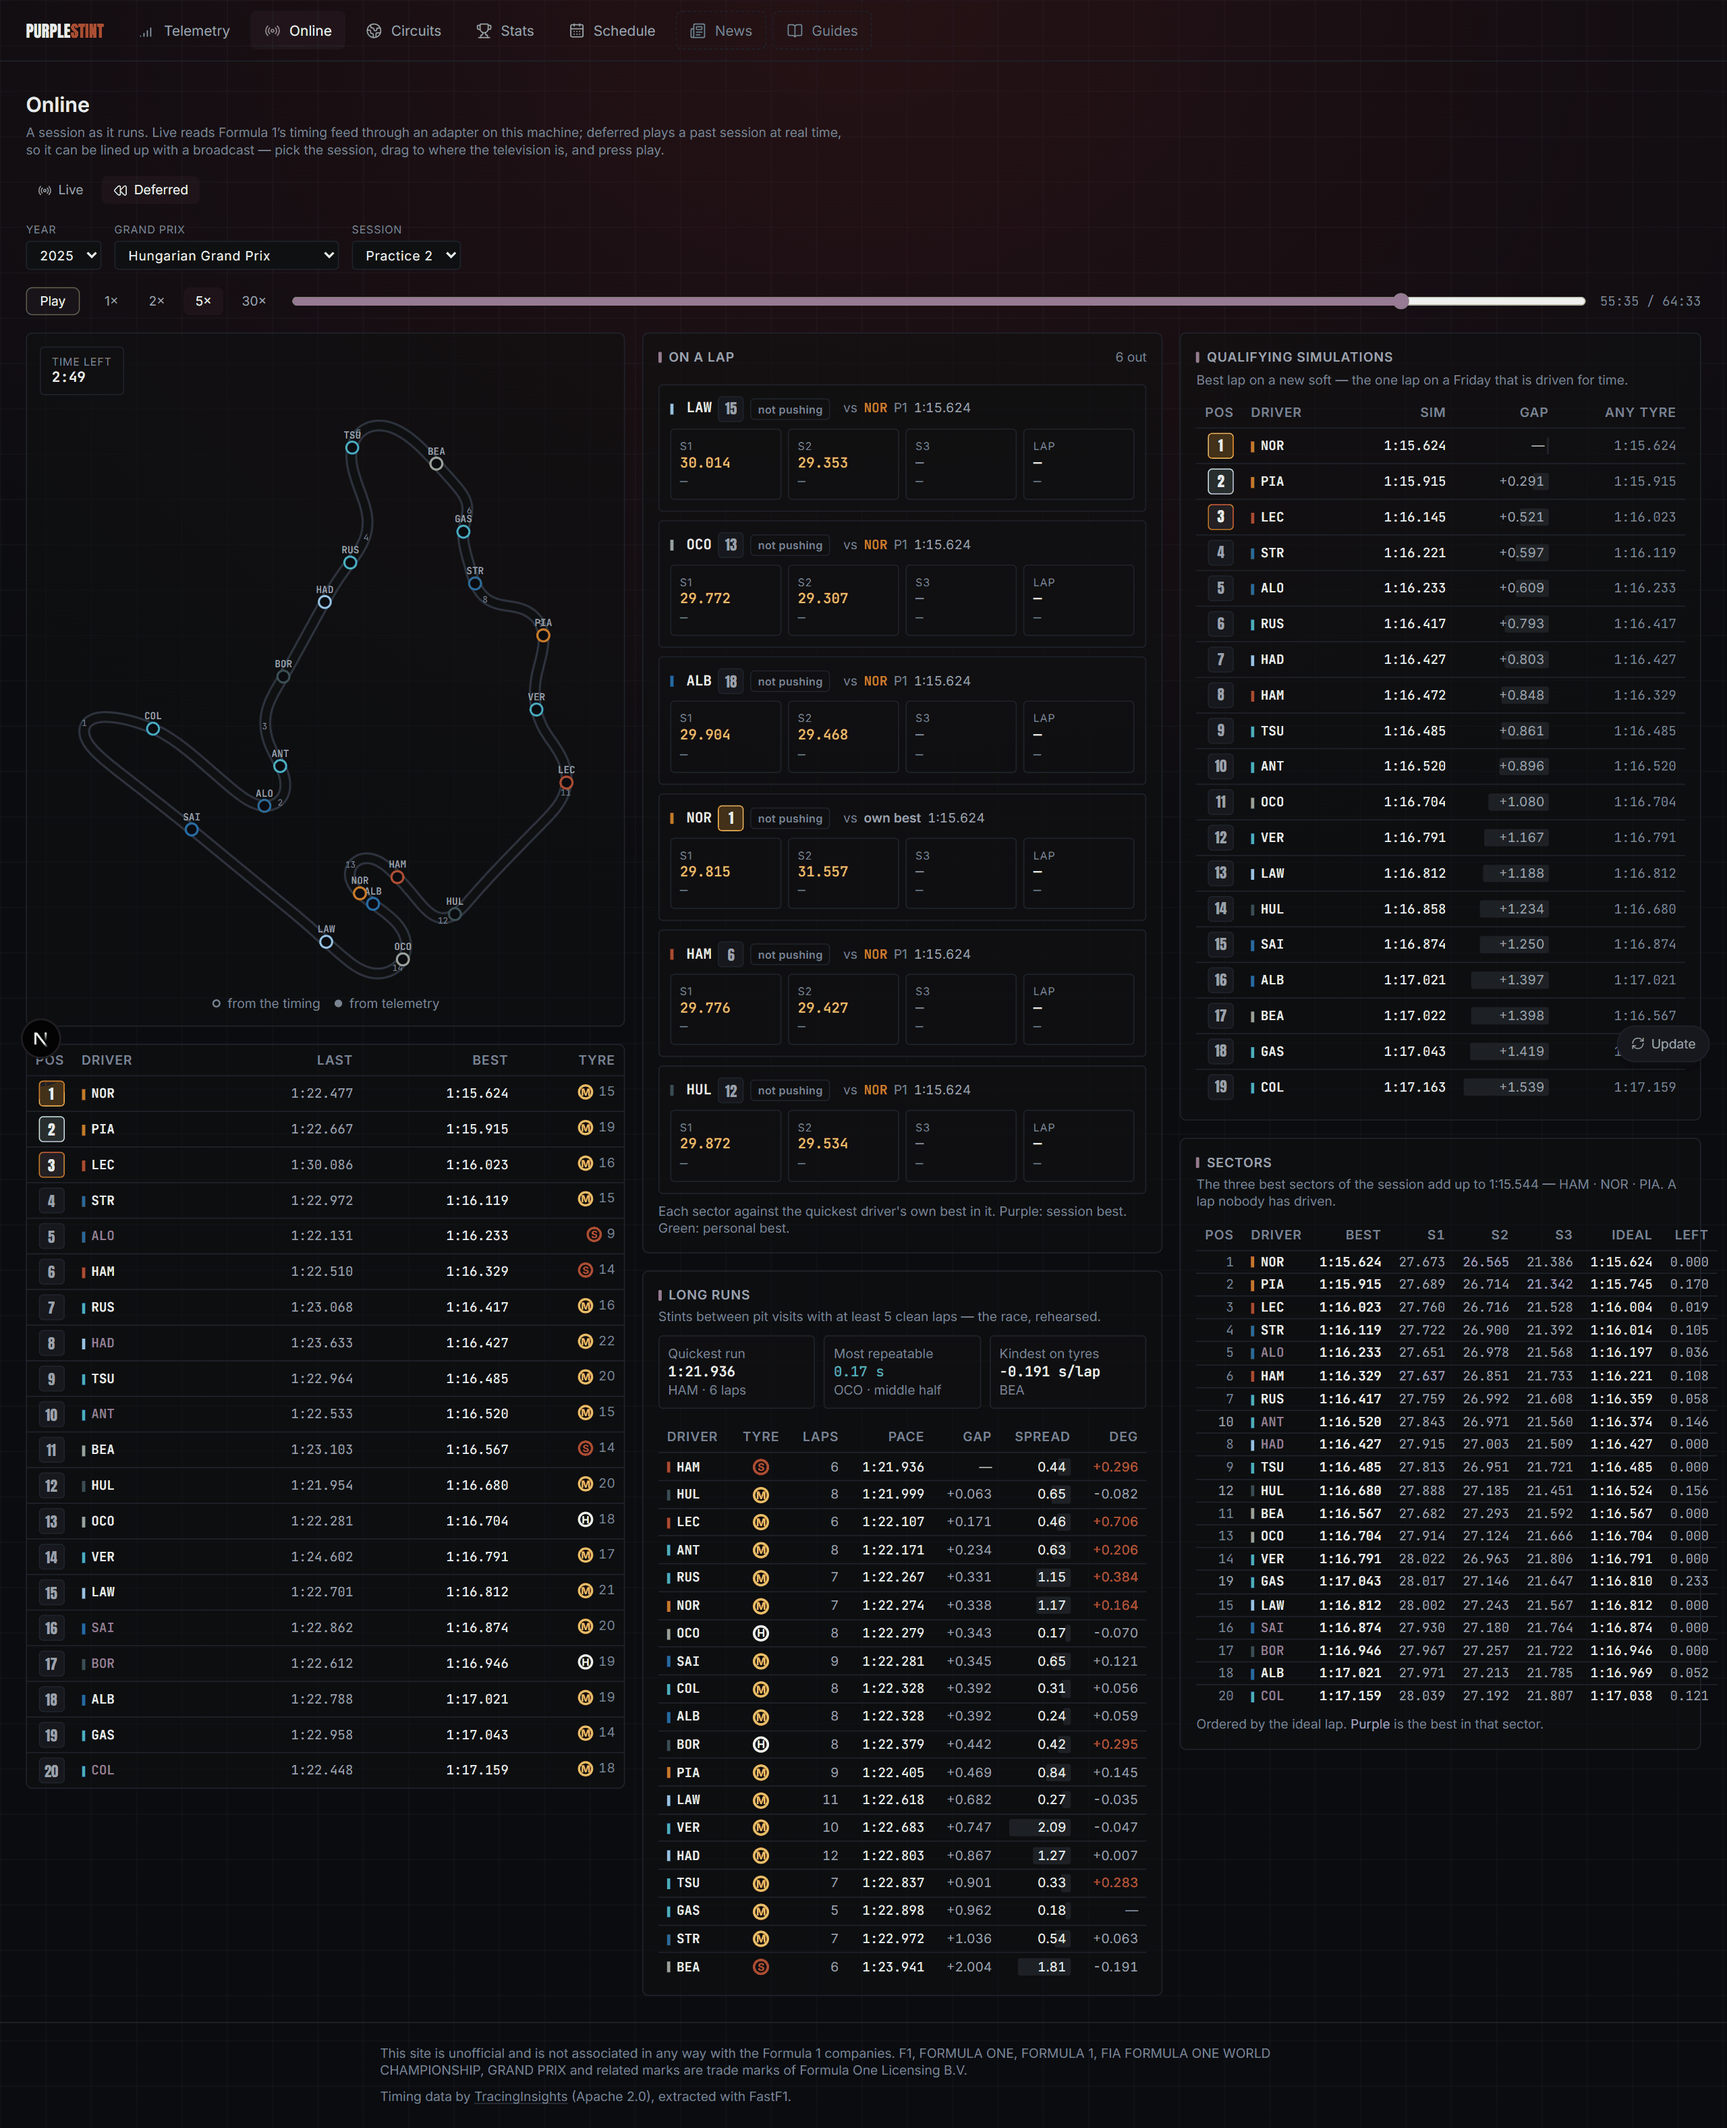
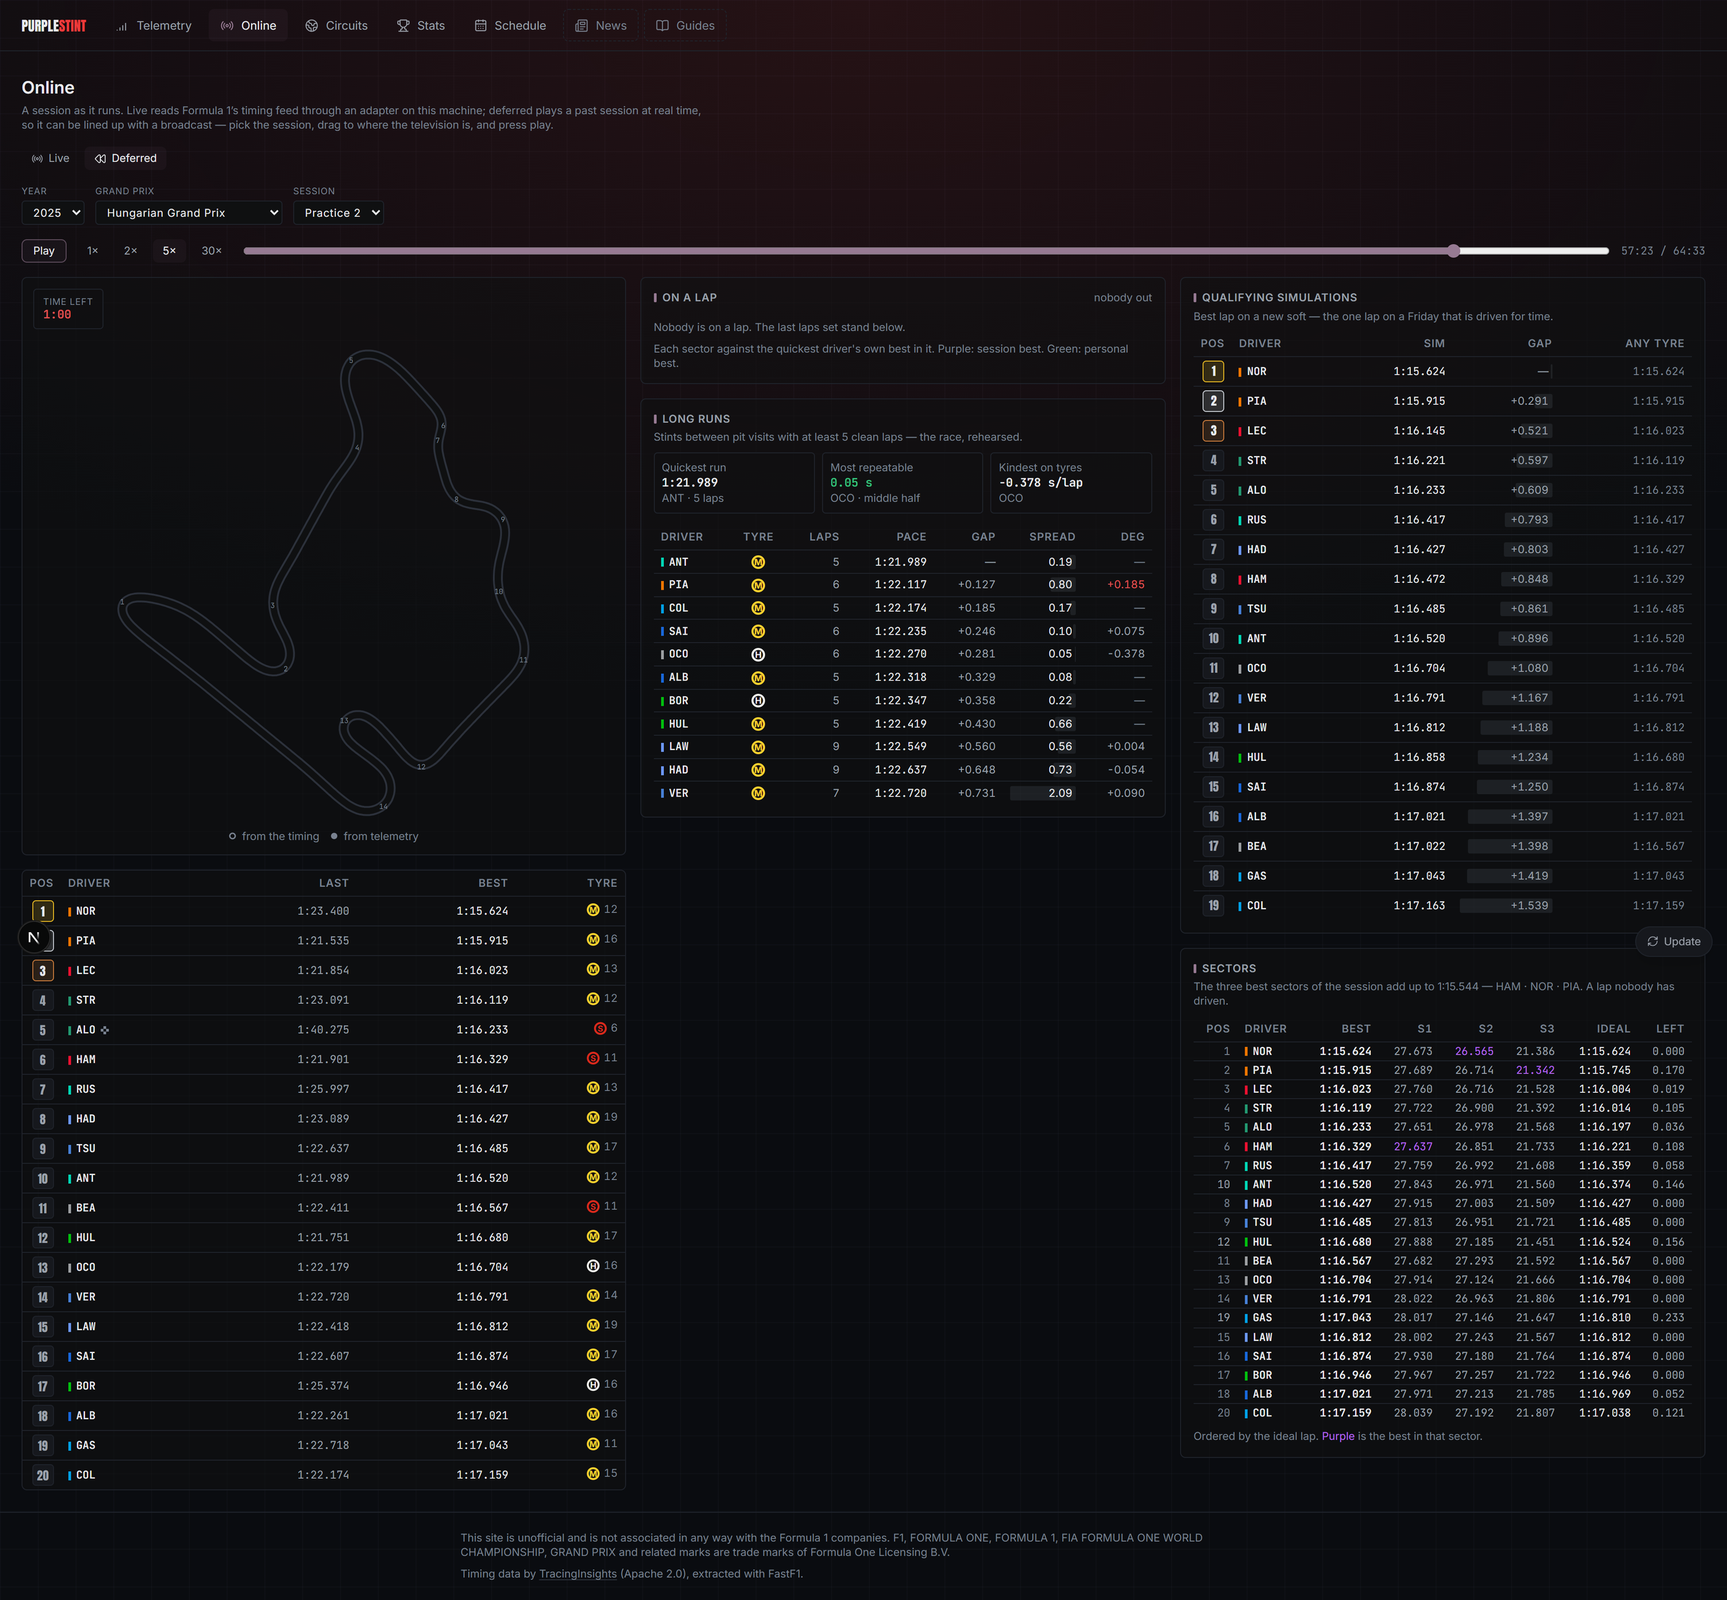
Purple Stint: better shots of the Online view
Captured at twice the pixel density and downsampled, rather than rendered at
1.6x and cut to 256 colours to save weight — text that has to be read in a
lightbox cannot afford either.

And captured at a moment worth keeping: a script plays the session, scores
each frame on how much of the screen is actually saying something, and stops
at the first one that clears the bar. Then it pauses and waits out the
reorder animation before the shutter, because a row caught halfway through a
change of place reads as a rendering bug in a still, however right it looks
in motion. Qualifying now shows four cars on flying laps with their sector
deltas rather than one; practice shows the long runs with the three readings
a Friday is planned by; the race shows the battles sector by sector.

diff --git a/index.html b/index.html
@@ -371,7 +371,7 @@ footer{text-align:center;padding:32px;border-top:1px solid var(--border);font-fa
 <p><strong>Watching a session as it runs.</strong> A second way into the data: a live timing screen, a map and a panel of analysis that changes with the session. It reads Formula 1&rsquo;s own timing feed through a small adapter that runs on one machine, or replays an exported session at real time so it can be lined up with a broadcast. That feed carries no licence, so the page is built and then <em>deleted</em> from the published export by the same script that reports the deployment&rsquo;s size, and a test fails the build if the route ever survives it; what ships is the replay path and the analysis, both built from the Apache-2.0 data. The two sources meet at one frame format and one reducer, so the live tool and the replay share every line except the adapter &mdash; which is what lets the live path be tested at all: 51 tests drive it by folding whole real sessions off disk and checking the state against the session&rsquo;s own classification.</p>
 <p><strong>The map was empty, and the measurement said so.</strong> The circuit map looked broken and the first job was to find out why rather than to style it. Instrumented in a real browser it held 60 fps with no long tasks, and drew no car at all for twenty seconds at a stretch: the exported telemetry is one lap per driver, which over twenty cars is 41 % of a qualifying&rsquo;s clock and 28 % of a race&rsquo;s &mdash; fewer than one car on screen at any moment. So the map is driven from the timing instead, which is complete, and the telemetry is kept for the one thing timing cannot give: the shape of a lap. A car a third of the way through a lap in <em>time</em> is not a third of the way round in <em>distance</em>, and that relation is measured once off a real lap and every car placed through it. Checked against the telemetry it does not use, the placement lands 6 m from the truth at the median and 12 m at the ninetieth percentile on a qualifying lap, 7 m and 17 m on a race lap, on a 4.35 km circuit. A car whose telemetry is running is still drawn from it, solid; the rest are hollow, because an estimate should look like one.</p>
 <p><strong>Each session asks its own question.</strong> Friday reads the long runs &mdash; stints between pit visits with at least five clean laps, with the median pace, the interquartile spread as consistency and the slope of the run as degradation &mdash; where clean means within 12 % of the stint&rsquo;s best, a rule added after one cool-down lap put a 41 s lap inside a Friday run. Saturday carries the cut-off above, and beside it each car on a lap against the time that matters to it: inside the cut you chase P1, outside it the car on the cut, sector by sector. Sunday leads with the battles &mdash; consecutive cars within a second and a half, or closing fast enough to be soon, with the cumulative delta at each sector both have passed and the laps until the chaser arrives &mdash; and then the net order, where a stop&rsquo;s worth of time is added to whoever still owes the mandatory change. What a stop costs is measured from the stops that race has already had rather than assumed: 20.2 s over 23 stops at Hungary 2025, against the 19 s of pit lane the site reports elsewhere. The session clock is derived the same way, from the moment the pit lane opened plus the regulation length, and refused where it cannot be trusted &mdash; a red-flagged qualifying stops the clock and nothing in the export says for how long, so Monaco 2025 offers a clock for Q3 and none for Q1 or Q2.</p>
-<div class="img-slider"><div class="img-slider-track" id="slider-ps-13"><div class="slide has-img shot" onclick="openLightbox(this)"><img loading="lazy" width="2560" height="2722" src="PurpleStint/P13 - Online race.png" alt="Online — race: the circuit with the lap counter, the order beside it, and the battles with what the chaser is taking at each sector"></div><div class="slide has-img shot" onclick="openLightbox(this)"><img loading="lazy" width="2560" height="2846" src="PurpleStint/P13 - Online qualifying.png" alt="Online — qualifying: the part's clock, a car on a lap against the time that matters to it, the sector board and the cut"></div><div class="slide has-img shot" onclick="openLightbox(this)"><img loading="lazy" width="2560" height="3154" src="PurpleStint/P13 - Online practice.png" alt="Online — practice: long runs with pace, spread and degradation, beside the qualifying simulations"></div></div><div class="slider-controls"><button class="slider-btn" onclick="scrollSlider(&#39;slider-ps-13&#39;,-1)">&larr;</button><button class="slider-btn" onclick="scrollSlider(&#39;slider-ps-13&#39;,1)">&rarr;</button></div></div>
+<div class="img-slider"><div class="img-slider-track" id="slider-ps-13"><div class="slide has-img shot" onclick="openLightbox(this)"><img loading="lazy" width="2560" height="2104" src="PurpleStint/P13 - Online race.png" alt="Online — race: the circuit with the lap counter, the order beside it, and the battles with what the chaser is taking at each sector"></div><div class="slide has-img shot" onclick="openLightbox(this)"><img loading="lazy" width="2560" height="2372" src="PurpleStint/P13 - Online qualifying.png" alt="Online — qualifying: the part's clock, a car on a lap against the time that matters to it, the sector board and the cut"></div><div class="slide has-img shot" onclick="openLightbox(this)"><img loading="lazy" width="2560" height="2372" src="PurpleStint/P13 - Online practice.png" alt="Online — practice: long runs with pace, spread and degradation, beside the qualifying simulations"></div></div><div class="slider-controls"><button class="slider-btn" onclick="scrollSlider(&#39;slider-ps-13&#39;,-1)">&larr;</button><button class="slider-btn" onclick="scrollSlider(&#39;slider-ps-13&#39;,1)">&rarr;</button></div></div>
 <p><strong>Colour as data, not decoration.</strong> Every colour is a token in one stylesheet and no component may hold a literal, which a test enforces. Each of the eleven sections owns its own accent hue, and the hues are chosen by search rather than by taste: a sweep of the sRGB cube for the colour furthest in CIEDE2000 from all 53 already in use, meaning the other accents, the timing and compound semantics, and the 21 team colours the data carries. The most recent one came out at 6.03:1 contrast and ΔE00 17.35 from its nearest neighbour, against a spec minimum of 15. Team colours are reserved for identity and never reused as interface colour, because a series colour on a chart is data. The whole thing exports to 8 220 files at 41 % of Cloudflare Pages' file cap, with a median page of 130 KB and no page over 0.4 MB, and the build fails if either limit is crossed.</p>
 <div class="img-slider"><div class="img-slider-track" id="slider-ps-8">
 <div class="slide has-img shot" onclick="openLightbox(this)"><img width="2560" height="1800" loading="lazy" src="PurpleStint/P10 - Circuits globe.png" alt="Circuits — WebGL globe of the season calendar"></div>
